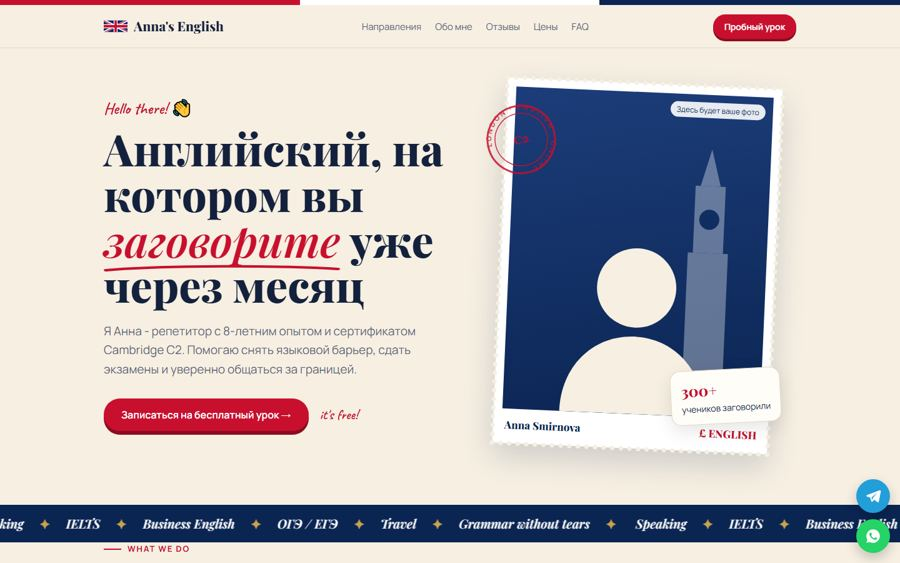
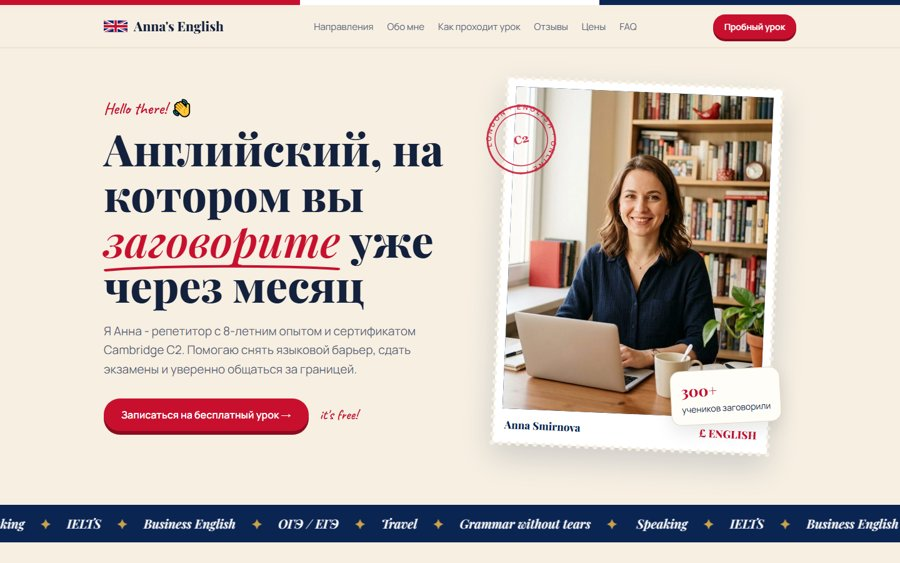
English tutor: photos, lesson flow, trial slot picker, spacing fix

diff --git a/english-tutor-v2/index.html b/english-tutor-v2/index.html
@@ -31,6 +31,7 @@ nav a{margin-left:22px;text-decoration:none;color:var(--muted);font-size:15px}na
 .btn.navy{background:#0b2553;box-shadow:0 6px 0 #061634}
 .btn.sm{padding:10px 18px;font-size:14px;box-shadow:0 4px 0 #8d0b20}
 section{padding:84px 0}
+section.wrap{padding:84px 16px}
 h2{font-family:"Playfair Display",serif;font-size:clamp(30px,4.6vw,46px);line-height:1.12;margin-bottom:12px}
 h2 em{color:var(--red);font-style:italic}
 .kicker{display:flex;align-items:center;gap:10px;text-transform:uppercase;letter-spacing:.14em;font-size:13px;font-weight:700;color:var(--red);margin-bottom:12px}
@@ -51,6 +52,7 @@ h2 em{color:var(--red);font-style:italic}
 .stamp-wrap{position:relative;max-width:440px;margin:0 auto;width:100%}
 .stamp{background:#fff;padding:14px;transform:rotate(2.5deg);box-shadow:0 20px 50px rgba(11,37,83,.18);;outline:7px dotted var(--cream);outline-offset:-3px}
 .stamp .ph{aspect-ratio:4/5;background:linear-gradient(170deg,#1c3d7a,#0b2553);position:relative;overflow:hidden;display:flex;align-items:flex-end;justify-content:center}
+.stamp .ph img{width:100%;height:100%;object-fit:cover;object-position:50% 20%}
 .stamp .ph .ben{position:absolute;right:10%;bottom:0;width:26%;opacity:.35}
 .stamp .ph .person{width:70%;position:relative}
 .stamp .cap{display:flex;justify-content:space-between;align-items:center;padding:12px 4px 2px;color:#0b2553;font-family:"Playfair Display",serif;font-weight:800}
@@ -92,6 +94,7 @@ h2 em{color:var(--red);font-style:italic}
 .pol.a{left:0;top:10px;transform:rotate(-6deg)}.pol.a div{background:linear-gradient(160deg,#c8102e,#7a0a1c)}
 .pol.b{right:0;top:90px;transform:rotate(5deg)}.pol.b div{background:linear-gradient(160deg,#1c3d7a,#0b2553)}
 .pol svg{width:60%}
+.pol div img{width:100%;height:100%;object-fit:cover}
 .creds{display:grid;grid-template-columns:1fr 1fr;gap:14px;margin-top:26px}
 @media(max-width:560px){.creds{grid-template-columns:1fr}}
 .cred{border-left:3px solid var(--red);padding:6px 0 6px 14px}
@@ -156,13 +159,38 @@ input:focus,select:focus{outline:2px solid var(--red);outline-offset:1px}
 .float svg{width:26px;height:26px;fill:#fff}
 footer{padding:36px 0 100px;color:var(--muted);font-size:14px}
 footer .wrap{display:flex;justify-content:space-between;gap:20px;flex-wrap:wrap}
+
+/* method */
+.method .steps{display:grid;grid-template-columns:repeat(4,1fr);gap:20px;margin-top:8px;counter-reset:s}
+@media(max-width:880px){.method .steps{grid-template-columns:1fr 1fr}}@media(max-width:560px){.method .steps{grid-template-columns:1fr}}
+.step{border-top:3px solid var(--navy);padding-top:16px}
+.step b{display:block;font-family:"Playfair Display",serif;font-size:20px;margin-bottom:4px}
+.step b span{color:var(--red);margin-right:8px}
+.step p{color:var(--muted);font-size:15px}
+.step small{display:block;font-family:Caveat,cursive;color:var(--red);font-size:19px;margin-top:6px}
+.approach{margin-top:34px;background:var(--card);border:1px solid var(--line);border-radius:20px;padding:24px 28px;display:grid;grid-template-columns:auto 1fr;gap:20px;align-items:center}
+.approach .big{font-family:"Playfair Display",serif;font-size:46px;font-weight:800;color:var(--red);line-height:1}
+.approach p{color:var(--muted)}.approach p b{color:var(--ink)}
+@media(max-width:560px){.approach{grid-template-columns:1fr}}
+/* slots */
+.slots-t{font-size:14px;font-weight:600;margin-top:4px}
+.chipset{display:flex;flex-wrap:wrap;gap:6px}
+.chipset label{position:relative}
+.chipset input{position:absolute;opacity:0;width:1px;height:1px}
+.chipset span{display:block;border:1px solid var(--line);background:var(--card);border-radius:10px;padding:7px 10px;font-size:14px;cursor:pointer;text-align:center;line-height:1.25}
+.chipset span small{display:block;font-size:11.5px;color:var(--muted)}
+.chipset input:checked+span{background:var(--navy);border-color:var(--navy);color:#fff}
+.chipset input:checked+span small{color:#b9c6e4}
+.chipset input:focus-visible+span{outline:2px solid var(--red);outline-offset:1px}
+.chipset input:disabled+span{opacity:.4;text-decoration:line-through;cursor:not-allowed}
+.slot-sum{font-size:13px;color:var(--muted)}
 </style>
 </head>
 <body>
 <div class="stripe"></div>
 <header><div class="wrap">
   <a class="logo" href="#"><svg viewBox="0 0 60 30"><clipPath id="c"><path d="M0 0v30h60V0z"/></clipPath><clipPath id="t"><path d="M30 15h30v15zv15H0zH0V0zV0h30z"/></clipPath><g clip-path="url(#c)"><path d="M0 0v30h60V0z" fill="#012169"/><path d="M0 0l60 30m0-30L0 30" stroke="#fff" stroke-width="6"/><path d="M0 0l60 30m0-30L0 30" clip-path="url(#t)" stroke="#C8102E" stroke-width="4"/><path d="M30 0v30M0 15h60" stroke="#fff" stroke-width="10"/><path d="M30 0v30M0 15h60" stroke="#C8102E" stroke-width="6"/></g></svg>Anna's English</a>
-  <nav><a href="#directions">Направления</a><a href="#about">Обо мне</a><a href="#reviews">Отзывы</a><a href="#prices">Цены</a><a href="#faq">FAQ</a></nav>
+  <nav><a href="#directions">Направления</a><a href="#about">Обо мне</a><a href="#method">Как проходит урок</a><a href="#reviews">Отзывы</a><a href="#prices">Цены</a><a href="#faq">FAQ</a></nav>
   <a class="btn sm" href="#form">Пробный урок</a>
 </div></header>
 
@@ -182,9 +210,7 @@ footer .wrap{display:flex;justify-content:space-between;gap:20px;flex-wrap:wrap}
       <svg class="postmark" viewBox="0 0 120 120" aria-hidden="true"><circle cx="60" cy="60" r="54" fill="none" stroke="#c8102e" stroke-width="3"/><circle cx="60" cy="60" r="42" fill="none" stroke="#c8102e" stroke-width="1.5"/><path id="arc" d="M60 60m-48 0a48 48 0 1 1 96 0a48 48 0 1 1-96 0" fill="none"/><text font-size="11" font-weight="700" fill="#c8102e" letter-spacing="3"><textPath href="#arc">LONDON · ENGLISH · ONLINE ·</textPath></text><text x="60" y="66" text-anchor="middle" font-size="18" font-weight="800" fill="#c8102e" font-family="Georgia">C2</text></svg>
       <div class="stamp">
         <div class="ph">
-          <span class="note-ph">Здесь будет ваше фото</span>
-          <svg class="ben" viewBox="0 0 40 160" aria-hidden="true"><path d="M20 0l6 22H14z" fill="#fff"/><rect x="11" y="22" width="18" height="40" fill="#fff"/><circle cx="20" cy="42" r="6" fill="#0b2553"/><rect x="8" y="62" width="24" height="98" fill="#fff"/></svg>
-          <svg class="person" viewBox="0 0 200 220" aria-hidden="true"><circle cx="100" cy="80" r="44" fill="#f6efe2"/><path d="M20 220c0-52 36-86 80-86s80 34 80 86z" fill="#f6efe2"/></svg>
+          <img src="img/anna.jpg" alt="Анна Смирнова, репетитор английского">
         </div>
         <div class="cap">Anna Smirnova <span>£ ENGLISH</span></div>
       </div>
@@ -215,8 +241,8 @@ footer .wrap{display:flex;justify-content:space-between;gap:20px;flex-wrap:wrap}
 <section id="about" class="about">
   <div class="wrap">
     <div class="polaroids">
-      <div class="pol a"><div><svg viewBox="0 0 100 100"><rect x="18" y="30" width="64" height="40" rx="6" fill="#fff"/><rect x="24" y="36" width="12" height="10" fill="#c8102e"/><rect x="40" y="36" width="12" height="10" fill="#c8102e"/><rect x="56" y="36" width="12" height="10" fill="#c8102e"/><circle cx="32" cy="72" r="6" fill="#fff"/><circle cx="68" cy="72" r="6" fill="#fff"/></svg></div><p>Стажировка в Лондоне</p></div>
-      <div class="pol b"><div><svg viewBox="0 0 100 100"><path d="M30 70h40l-4-30H34z" fill="#fff"/><path d="M70 48c10 0 10 14 0 14" stroke="#fff" stroke-width="4" fill="none"/><path d="M42 30c0-6 6-6 6-12M52 30c0-6 6-6 6-12" stroke="#fff" stroke-width="3" fill="none" stroke-linecap="round"/></svg></div><p>Уроки с чашкой чая ☕</p></div>
+      <div class="pol a"><div><img src="img/london.jpg" alt="Анна на стажировке в Лондоне" loading="lazy"></div><p>Стажировка в Лондоне</p></div>
+      <div class="pol b"><div><img src="img/tea.jpg" alt="Урок онлайн с чашкой чая" loading="lazy"></div><p>Уроки с чашкой чая ☕</p></div>
     </div>
     <div>
       <div class="kicker">About me</div>
@@ -230,6 +256,23 @@ footer .wrap{display:flex;justify-content:space-between;gap:20px;flex-wrap:wrap}
       </div>
       <p class="hand" style="margin-top:26px">See you in class! - Anna</p>
     </div>
+  </div>
+</section>
+
+
+<section id="method" class="wrap method">
+  <div class="kicker">How it works</div>
+  <h2>Как проходит <em>урок</em></h2>
+  <p class="sub">60 минут в Zoom. Каждый урок строится по одной схеме - вы всегда знаете, что будет дальше.</p>
+  <div class="steps">
+    <div class="step"><b><span>1</span>Разговор</b><p>10 минут болтаем о вашей неделе на английском - разогреваемся и вспоминаем прошлую тему.</p><small>Warm-up</small></div>
+    <div class="step"><b><span>2</span>Новая тема</b><p>Правило или лексика на живых примерах: фильмы, статьи, ваша работа.</p><small>Learn</small></div>
+    <div class="step"><b><span>3</span>Практика</b><p>Диалоги и ролевые ситуации: собеседование, отель, звонок коллеге.</p><small>Speak</small></div>
+    <div class="step"><b><span>4</span>Домашка</b><p>Конспект и задание в Telegram. Проверяю и отвечаю на вопросы между уроками.</p><small>Practice</small></div>
+  </div>
+  <div class="approach">
+    <div class="big">70%</div>
+    <p><b>Коммуникативная методика.</b> Большую часть урока говорите вы, а не преподаватель. Грамматику разбираем, когда она нужна для речи, а не ради тестов. Каждые 2 месяца - мини-тест, чтобы видеть прогресс.</p>
   </div>
 </section>
 
@@ -282,9 +325,13 @@ footer .wrap{display:flex;justify-content:space-between;gap:20px;flex-wrap:wrap}
       <input required name="name" placeholder="Ваше имя">
       <input required name="phone" type="tel" placeholder="Телефон или @ник в Telegram">
       <select name="goal"><option>Цель занятий</option><option>Разговорный</option><option>ОГЭ / ЕГЭ</option><option>IELTS / TOEFL</option><option>Для работы</option><option>Для ребёнка</option></select>
-      <label class="agree"><input type="checkbox" required> Согласен(на) на обработку персональных данных</label>
+      <div class="slots-t">Когда удобно пройти пробный урок?</div>
+      <div class="chipset" id="sDay"></div>
+      <div class="chipset" id="sTime"></div>
+      <div class="slot-sum" id="sSum">Выберите день и время - или оставьте пустым, подберём вместе.</div>
+      <label class="agree"><input type="checkbox" required> Согласна / согласен на обработку персональных данных</label>
       <button class="btn" type="submit" style="justify-content:center">Отправить заявку ✉</button>
-      <div class="ok" id="ok"><b>Thank you! 🇬🇧</b>Заявка отправлена, скоро свяжусь с вами.</div>
+      <div class="ok" id="ok"><b>Thank you! 🇬🇧</b><span id="okT">Заявка отправлена, скоро свяжусь с вами.</span><br><small style="color:var(--muted)">Это демо. На рабочем сайте заявка сразу приходит преподавателю в Telegram.</small></div>
     </form>
   </div>
 </section>
@@ -300,6 +347,30 @@ footer .wrap{display:flex;justify-content:space-between;gap:20px;flex-wrap:wrap}
 
 <script>
 document.getElementById('lead').addEventListener('submit',function(e){e.preventDefault();[...this.children].forEach(function(el){if(el.id!=='ok')el.style.display='none'});document.getElementById('ok').style.display='block';});
+</script>
+<script>
+(()=>{
+const MON=['янв','фев','мар','апр','мая','июн','июл','авг','сен','окт','ноя','дек'],WD=['вс','пн','вт','ср','чт','пт','сб'];
+const H=[10,12,14,16,18,19,20];
+const start=new Date().getHours()>=19?1:0;
+const days=[...Array(7)].map((_,i)=>{const d=new Date();d.setHours(0,0,0,0);d.setDate(d.getDate()+i+start);return d});
+const st={d:null,h:null};
+const $=id=>document.getElementById(id);
+const busy=(d,h)=>((d.getDate()*5+h*7)%9)<3;
+function draw(){
+  $('sDay').innerHTML=days.map((d,i)=>`<label><input type="radio" name="sd" value="${i}" ${st.d===i?'checked':''}><span>${i+start===0?'Сегодня':i+start===1?'Завтра':WD[d.getDay()]}<small>${d.getDate()} ${MON[d.getMonth()]}</small></span></label>`).join('');
+  if(st.d===null){$('sTime').innerHTML='';return}
+  const d=days[st.d],now=new Date();
+  $('sTime').innerHTML=H.map(h=>{const dis=busy(d,h)||(d.toDateString()===now.toDateString()&&h<=now.getHours());if(dis&&st.h===h)st.h=null;return `<label><input type="radio" name="sh" value="${h}" ${st.h===h?'checked':''} ${dis?'disabled':''}><span>${h}:00</span></label>`}).join('');
+}
+function sum(){
+  if(st.d===null||st.h===null){$('sSum').textContent=st.d===null?'Выберите день и время - или оставьте пустым, подберём вместе.':'Теперь выберите время. Зачёркнутое уже занято.';return}
+  const d=days[st.d];$('sSum').textContent=`Пробный урок: ${d.getDate()} ${MON[d.getMonth()]} в ${st.h}:00 (мск), 30 минут, бесплатно.`;
+}
+$('lead').addEventListener('change',e=>{if(e.target.name==='sd'){st.d=+e.target.value;draw()}if(e.target.name==='sh')st.h=+e.target.value;sum()});
+$('lead').addEventListener('submit',()=>{if(st.d!==null&&st.h!==null){const d=days[st.d];$('okT').textContent=`Записала вас на пробный урок ${d.getDate()} ${MON[d.getMonth()]} в ${st.h}:00. Пришлю ссылку на Zoom.`}});
+draw();
+})();
 </script>
 </body>
 </html>

diff --git a/portfolio/index.html b/portfolio/index.html
@@ -477,7 +477,7 @@ const W=[
  {cat:'code',t:'Загородный комплекс «Тихая Сосна»',f:'Для баз отдыха',img:'baza',d:'Сайт базы отдыха с бронированием: календарь занятости домиков, расчёт стоимости с баней и завтраками, предоплата.',url:GH+'demo-baza-otdyha/',b:['Премиум','Бронирование']},
  {cat:'code',t:'Психологи: женская и мужская версия',f:'Для психологов',d:'Два сайта психологов в едином стиле - одна система дизайна под разных специалистов.',pair:['psy-w','psy-m'],labels:['Анна','Михаил'],links:[['Сайт 1',GH+'psy-konsultaciya/'],['Сайт 2',GH+'psy-mikhail/']],wide:1,b:['Серия']},
  {cat:'code',t:'Студия маникюра «Миндаль»',f:'Для салонов красоты',img:'mindal',d:'Сайт для мастера маникюра и педикюра: работы с просмотром фото, услуги с ценами, палитра и онлайн-запись: клиент сам выбирает услугу, мастера и свободное время.',url:GH+'mindal/',b:['Онлайн-запись']},
- {cat:'code',t:'Преподаватель английского',f:'Для репетиторов',img:'english',d:'Сайт репетитора: программы, отзывы, запись на пробный урок.',url:GH+'english-tutor-v2/'},
+ {cat:'code',t:'Преподаватель английского',f:'Для репетиторов',img:'english',d:'Сайт репетитора: направления, как проходит урок, отзывы, цены и запись на пробный урок с выбором дня и времени.',url:GH+'english-tutor-v2/'},
  {cat:'code',t:'Контент-Лаборатория',f:'Для команд и агентств',img:'weapons',d:'Яркий лендинг для команды, которая создаёт контент.',url:GH+'weapons/'},
  {cat:'code',t:'Дробильное оборудование «ГорТехПоставка»',f:'Для производства',img:'drobilki',d:'Сайт поставщика дробилок для карьеров: квиз-подбор модели за 3 вопроса, запрос КП и опросного листа.',url:GH+'drobilki/',b:['B2B','Квиз-подбор']},
  {cat:'code',t:'Строительная компания',f:'Для строителей',img:'stroyka',d:'Сайт подрядчика: услуги, объекты, расчёт стоимости.',url:GH+'stroyka/'},
